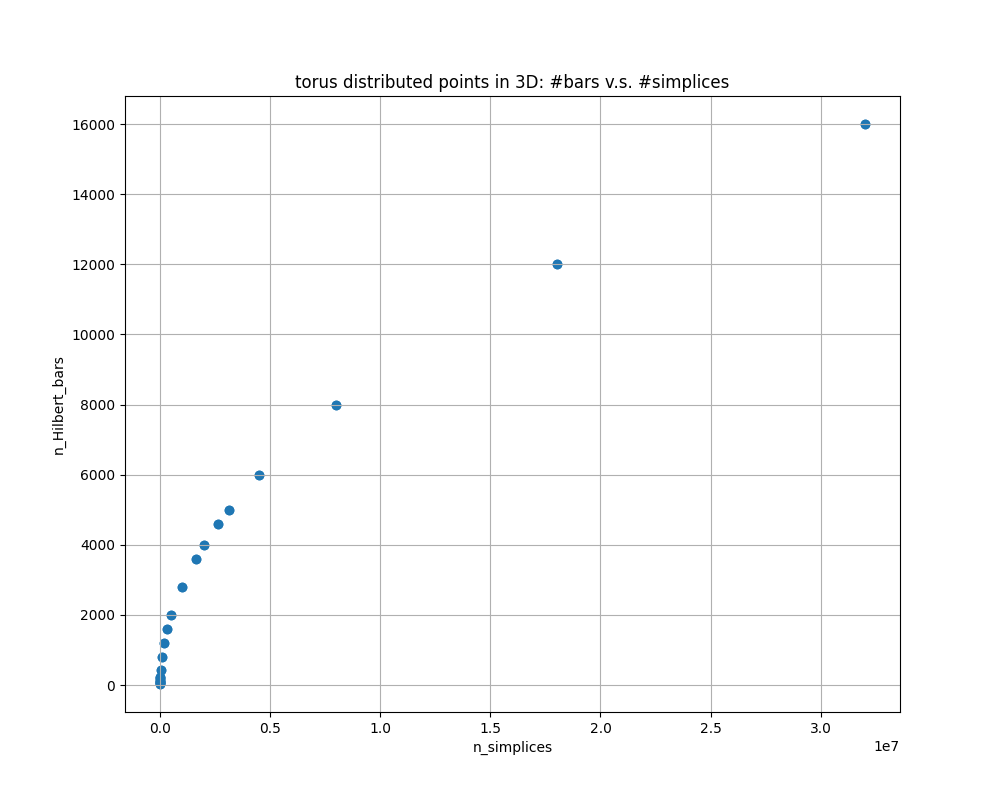
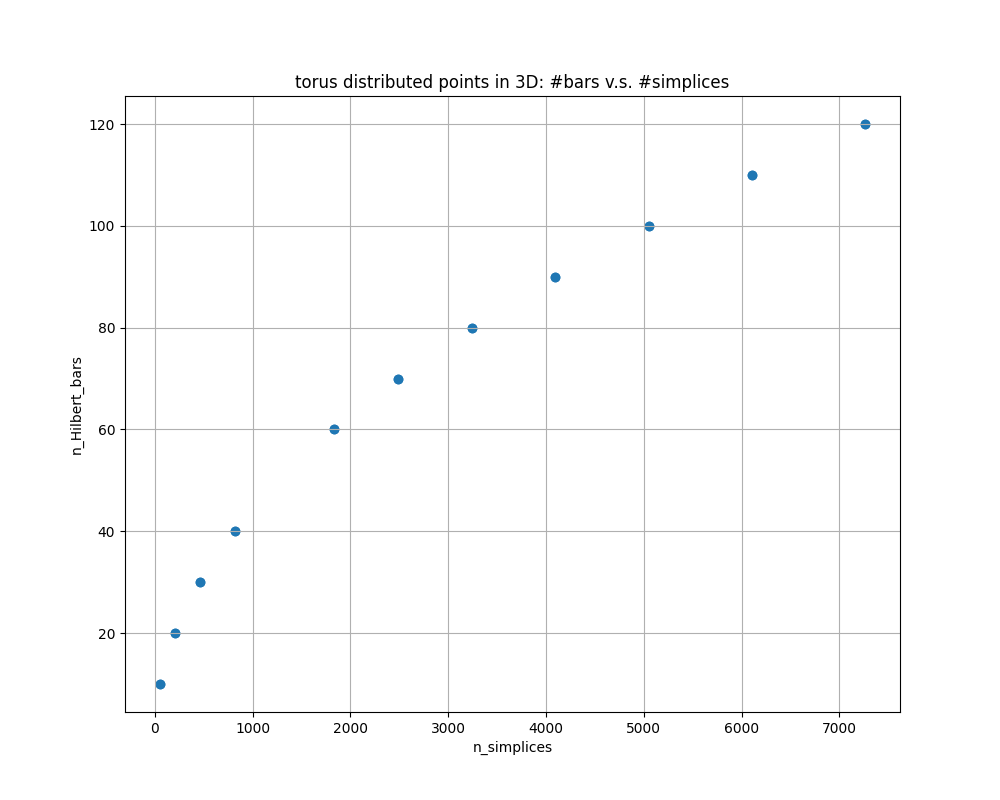
add experimental results

diff --git a/persistable/experiment_count_decomp_v4.py b/persistable/experiment_count_decomp_v4.py
@@ -4,6 +4,7 @@ import gudhi as gd
 import pdb
 import networkx as nx
 
+import persistable
 from persistable import Persistable
 from persistable.persistable import _HierarchicalClustering, _MetricSpace
 from persistable.signed_betti_numbers import signed_betti
@@ -78,16 +79,45 @@ def create_Gaussian_points(dim,pts_range,N,n_clusters):
     points = points * pts_range
     return points
 
+def hf_degree_rips(
+    distance_matrix,
+    min_rips_value,
+    max_rips_value,
+    max_normalized_degree,
+    min_normalized_degree,
+    grid_granularity,
+    max_homological_dimension,
+    subsample_size = None,
+):
+    if subsample_size == None:
+        p = persistable.Persistable(distance_matrix, metric="precomputed")
+    else:
+        p = persistable.Persistable(distance_matrix, metric="precomputed", subsample=subsample_size)
+
+    rips_values, normalized_degree_values, hilbert_functions, minimal_hilbert_decompositions = p._hilbert_function(
+        min_rips_value,
+        max_rips_value,
+        max_normalized_degree,
+        min_normalized_degree,
+        grid_granularity,
+        homological_dimension=max_homological_dimension,
+    )
+    #print("higher degree hilbert_functions:\n",hilbert_functions)
+    #print("higher degree minimal_hilbert_decompositions:\n",minimal_hilbert_decompositions)
+    return rips_values, normalized_degree_values, hilbert_functions, minimal_hilbert_decompositions
 
 
-def run_experiments(n_batch, dim_point, pts_range, num_points, data_type, n_clusters, ss, ks):
+
+    
+def run_experiments_higher_homology(n_batch, dim_point, pts_range, num_points, data_type, n_clusters, min_radius,max_radius, max_degree,min_degree,grid_granularity,max_homological_dimension):
     n_signed_bars = []
     n_simplices = []
     n_vertices = []
 
     for num_point in num_points:
-        for _ in range(n_batch):
-
+        for batch_id in range(n_batch):
+            print("num_point=",num_point)
+            print("batch_id=",batch_id)
             # Create points
             if data_type=="uniform":
                 points = create_uniformly_distributed_points(dim_point,pts_range, num_point)
@@ -96,21 +126,27 @@ def run_experiments(n_batch, dim_point, pts_range, num_points, data_type, n_clus
             elif data_type=="gaussian":
                 points = create_Gaussian_points(dim_point,pts_range, num_point,n_clusters)
 
-
+            dist = DistanceMetric.get_metric('minkowski')
+            distance_matrix = dist.pairwise(points)
             # Compute the signed Betti barcode
-            p = Persistable(points,metric="minkowski")
-            bf = p._bifiltration
-            hf = bf._hilbert_function(ss, ks, reduced=False, n_jobs=4)
-            sb = signed_betti(hf[0])[0]
+            rips_values, normalized_degree_values, hilbert_functions, minimal_hilbert_decompositions=hf_degree_rips(distance_matrix, min_radius,max_radius,max_degree,min_degree,grid_granularity,max_homological_dimension)
+            #pdb.set_trace()
+            sb = minimal_hilbert_decompositions[max_homological_dimension]
+            #hf = hilbert_functions[max_homological_dimension]
+            
             num_pos_bar = sb[sb>0].sum()
             num_neg_bar = -sb[sb<0].sum()
             num_bars = num_pos_bar + num_neg_bar
-            n_signed_bars.append(num_bars)
-            n_simplices.append(num_point+num_point*(num_point-1)/2)
+
+            num_simplice = 0
+            for k in range(max_homological_dimension+1, max_homological_dimension+3):
+                num_simplice+=math.comb(num_point, k)
+
+            n_signed_bars.append(num_bars)    
+            n_simplices.append(num_simplice)
             n_vertices.append(num_point)
 
     return n_signed_bars, n_simplices, n_vertices
-    
 
 def draw_plot(x,y,x_name,y_name,title_name,fig_name):
     plt.figure(figsize=(10, 8))
@@ -123,18 +159,23 @@ def draw_plot(x,y,x_name,y_name,title_name,fig_name):
     plt.title(title_name)
 
     plt.grid(True)
-    plt.savefig("../experiment_result_v3/"+fig_name)
+    plt.savefig("../experiment_result_v4/"+fig_name)
     #plt.show()
 
 
 ##### User Define
-n_batch = 2
+n_batch = 1
 pts_range = 10
 data_type = "torus"
 max_n_clusters = 8
 max_dim_points = 8
-#num_points=[10,20,30,40,60,80,100,200,400,600,800,1000,1400,1800,2000,2300,2500,3000,4000,6000,8000]
-num_points=[10,20,30,40,60,70,80,90,100,110,120]
+max_degree = 1
+min_degree = 0
+min_radius = 0
+grid_granularity = 10
+max_homological_dimension = 1
+num_points=[10,20,30,40,60,80,100,200,400,600,800,1000,1400,1800]
+#num_points=[10,20,30,40,60,70,80,90,100,110,120]
 ######
 
 dist = DistanceMetric.get_metric('minkowski')
@@ -146,46 +187,43 @@ if data_type == "torus":
     dim_point = 3
     max_radius = (dist.pairwise([np.zeros(dim_point),np.ones(dim_point)*pts_range])[0,1]+1)/2
 
-    ss = np.linspace(0, max_radius, 10) #radius
-    ks = np.linspace(1, 0, 10) #degree
-
-    n_signed_bars, n_simplices, n_vertices = run_experiments(n_batch, dim_point, pts_range, num_points, data_type, n_clusters,ss, ks)
+    n_signed_bars, n_simplices, n_vertices = run_experiments_higher_homology(n_batch, dim_point, pts_range, num_points, data_type, n_clusters, min_radius,max_radius, max_degree,min_degree,grid_granularity,max_homological_dimension)
 
     title_type = data_type + " distributed points in " + str(dim_point) + "D: "
-    title_name1 = title_type + "#bars v.s. #simplices"
-    title_name2 = title_type + "#vertices v.s. #simplices"
-    title_name3 = title_type + "#vertices v.s. sqrt(#simplices)"
+    title_name1 = title_type + "#bars v.s. #simplices, degree "+str(max_homological_dimension)
+    title_name2 = title_type + "#vertices v.s. #simplices, degree "+str(max_homological_dimension)
+    title_name3 = title_type + "#vertices v.s. sqrt(#simplices), degree "+str(max_homological_dimension)
 
-    fig_name1 = data_type + "/" + data_type+"_" + str(dim_point) + "D_bars-simplices"
-    fig_name2 = data_type + "/" + data_type+"_" + str(dim_point) + "D_bars-vertices"
-    fig_name3 = data_type +"/" + data_type+"_" + str(dim_point) + "D_bars-sqrt(n_simplices)"
+    fig_name1 = data_type + "/" + data_type+"_" + str(dim_point) + "D_bars-simplices_degree_"+str(max_homological_dimension)
+    fig_name2 = data_type + "/" + data_type+"_" + str(dim_point) + "D_bars-vertices_degree_"+str(max_homological_dimension)
+    fig_name3 = data_type +"/" + data_type+"_" + str(dim_point) + "D_bars-sqrt(n_simplices)_degree_"+str(max_homological_dimension)
 
 
     n_simplices_array = np.array(n_simplices)
-    sqrt_n_simplices = np.sqrt(n_simplices_array)
-    sqrt_n_simplices_list = list(sqrt_n_simplices)
+    sbrt_n_simplices = np.cbrt(n_simplices_array)
+    cbrt_n_simplices_list = list(sbrt_n_simplices)
+    
 
     draw_plot(n_simplices,n_signed_bars,'n_simplices','n_Hilbert_bars',title_name1,fig_name1)
     draw_plot(n_vertices, n_signed_bars, 'n_pts','n_Hilbert_bars',title_name2,fig_name2)
-    draw_plot(sqrt_n_simplices_list, n_signed_bars, 'sqrt_n_simplices','n_Hilbert_bars',title_name3,fig_name3)
+    draw_plot(cbrt_n_simplices_list, n_signed_bars, 'cbrt_n_simplices','n_Hilbert_bars',title_name3,fig_name3)
+    pdb.set_trace()
 
 
 elif data_type== "gaussian":
     for n_clusters in range(1,max_n_clusters):
         for dim_point in range(1,max_dim_points):
             max_radius = (dist.pairwise([np.zeros(dim_point),np.ones(dim_point)*pts_range])[0,1]+1)/2
-            ss = np.linspace(0, max_radius, 10) #radius
-            ks = np.linspace(1, 0, 10) #degree
 
-            n_signed_bars, n_simplices, n_vertices = run_experiments(n_batch, dim_point, pts_range, num_points, data_type, n_clusters,ss, ks)
+            n_signed_bars, n_simplices, n_vertices = run_experiments_higher_homology(n_batch, dim_point, pts_range, num_points, data_type, n_clusters, min_radius,max_radius, max_degree,min_degree,grid_granularity,max_homological_dimension)
             title_type = data_type + " distributed points in " + str(dim_point) + "D: "
             title_type = str(n_clusters) + " clusters " + title_type
-            title_name1 = title_type + "#bars v.s. #simplices"
-            title_name2 = title_type + "#vertices v.s. #simplices"
-            title_name3 = title_type + "#vertices v.s. sqrt(#simplices)"
-            fig_name1 = data_type +"/" + data_type+"_" + str(dim_point) + "D_"+str(n_clusters)+"_clusters_bars-simplices"
-            fig_name2 = data_type +"/" + data_type+"_" + str(dim_point) + "D_"+str(n_clusters)+"_clusters_bars-vertices"
-            fig_name3 = data_type +"/" + data_type+"_" + str(dim_point) + "D_"+str(n_clusters)+"_clusters_bars-sqrt(n_simplices)"
+            title_name1 = title_type + "#bars v.s. #simplices, degree "+str(max_homological_dimension)
+            title_name2 = title_type + "#vertices v.s. #simplices, degree "+str(max_homological_dimension)
+            title_name3 = title_type + "#vertices v.s. sqrt(#simplices), degree "+str(max_homological_dimension)
+            fig_name1 = data_type +"/" + data_type+"_" + str(dim_point) + "D_"+str(n_clusters)+"_clusters_bars-simplices_degree_"+str(max_homological_dimension)
+            fig_name2 = data_type +"/" + data_type+"_" + str(dim_point) + "D_"+str(n_clusters)+"_clusters_bars-vertices_degree_"+str(max_homological_dimension)
+            fig_name3 = data_type +"/" + data_type+"_" + str(dim_point) + "D_"+str(n_clusters)+"_clusters_bars-sqrt(n_simplices)_degree_"+str(max_homological_dimension)
             
             n_simplices_array = np.array(n_simplices)
             sqrt_n_simplices = np.sqrt(n_simplices_array)
@@ -199,17 +237,15 @@ elif data_type== "gaussian":
 elif data_type=="uniform":
     for dim_point in range(1,max_dim_points):
         max_radius = (dist.pairwise([np.zeros(dim_point),np.ones(dim_point)*pts_range])[0,1]+1)/2
-        ss = np.linspace(0, max_radius, 10) #radius
-        ks = np.linspace(1, 0, 10) #degree
 
-        n_signed_bars, n_simplices, n_vertices = run_experiments(n_batch, dim_point, pts_range, num_points, data_type, n_clusters,ss, ks)
+        n_signed_bars, n_simplices, n_vertices = run_experiments_higher_homology(n_batch, dim_point, pts_range, num_points, data_type, n_clusters, min_radius,max_radius, max_degree,min_degree,grid_granularity,max_homological_dimension)
         title_type = data_type + " distributed points in " + str(dim_point) + "D: "
-        title_name1 = title_type + "#bars v.s. #simplices"
-        title_name2 = title_type + "#vertices v.s. #simplices"
-        title_name3 = title_type + "#vertices v.s. sqrt(#simplices)"
-        fig_name1 = data_type +"/" + data_type+"_" + str(dim_point) + "D_bars-simplices"
-        fig_name2 = data_type +"/" + data_type+"_" + str(dim_point) + "D_bars-vertices"
-        fig_name3 = data_type +"/" + data_type+"_" + str(dim_point) + "D_bars-sqrt(n_simplices)"
+        title_name1 = title_type + "#bars v.s. #simplices, degree "+str(max_homological_dimension)
+        title_name2 = title_type + "#vertices v.s. #simplices, degree "+str(max_homological_dimension)
+        title_name3 = title_type + "#vertices v.s. sqrt(#simplices), degree "+str(max_homological_dimension)
+        fig_name1 = data_type +"/" + data_type+"_" + str(dim_point) + "D_bars-simplices_degree_"+str(max_homological_dimension)
+        fig_name2 = data_type +"/" + data_type+"_" + str(dim_point) + "D_bars-vertices_degree_"+str(max_homological_dimension)
+        fig_name3 = data_type +"/" + data_type+"_" + str(dim_point) + "D_bars-sqrt(n_simplices)_degree_"+str(max_homological_dimension)
 
         n_simplices_array = np.array(n_simplices)
         sqrt_n_simplices = np.sqrt(n_simplices_array)

diff --git a/persistable/count_decomp_v4.py b/persistable/count_decomp_v4.py
@@ -5,9 +5,12 @@ import pdb
 import networkx as nx
 import gudhi as gd
 
+import persistable
 from persistable import Persistable
 from persistable.persistable import _HierarchicalClustering, _MetricSpace
 from persistable.signed_betti_numbers import signed_betti
+from sklearn.metrics import DistanceMetric
+
 
 def creat_random_points(x_range,y_range,N):
     # output is a (N,2) array
@@ -15,6 +18,56 @@ def creat_random_points(x_range,y_range,N):
     points[:,0]=points[:,0] * x_range
     points[:,1]=points[:,1] * y_range
     return points
+
+def hf_degree_rips(
+    distance_matrix,
+    min_rips_value,
+    max_rips_value,
+    max_normalized_degree,
+    min_normalized_degree,
+    grid_granularity,
+    max_homological_dimension,
+    subsample_size = None,
+):
+    if subsample_size == None:
+        p = persistable.Persistable(distance_matrix, metric="precomputed")
+    else:
+        p = persistable.Persistable(distance_matrix, metric="precomputed", subsample=subsample_size)
+
+    rips_values, normalized_degree_values, hilbert_functions, minimal_hilbert_decompositions = p._hilbert_function(
+        min_rips_value,
+        max_rips_value,
+        max_normalized_degree,
+        min_normalized_degree,
+        grid_granularity,
+        homological_dimension=max_homological_dimension,
+    )
+    print("higher degree hilbert_functions:\n",hilbert_functions)
+    print("higher degree minimal_hilbert_decompositions:\n",minimal_hilbert_decompositions)
+    return rips_values, normalized_degree_values, hilbert_functions, minimal_hilbert_decompositions
+
+
+
+def hf_h0_degree_rips(
+    point_cloud,
+    min_rips_value,
+    max_rips_value,
+    max_normalized_degree,
+    min_normalized_degree,
+    grid_granularity,
+):
+    p = persistable.Persistable(point_cloud, n_neighbors="all")
+
+    rips_values, normalized_degree_values, hilbert_functions, minimal_hilbert_decompositions = p._hilbert_function(
+        min_rips_value,
+        max_rips_value,
+        max_normalized_degree,
+        min_normalized_degree,
+        grid_granularity,
+    )
+    print("degree 0 hilbert_functions:\n",hilbert_functions[0])
+    print("degree 0 minimal hilbert decomposition:\n",minimal_hilbert_decompositions[0])
+    return rips_values, normalized_degree_values, hilbert_functions[0], minimal_hilbert_decompositions[0] 
 
 
 def filter_graph(points, edges, s):
@@ -31,16 +84,12 @@ def filter_graph(points, edges, s):
 
     # List of nodes to be removed
     nodes_to_remove = [node for node, degree in dict(G.degree()).items() if degree < s]
-
     # Remove nodes
     G.remove_nodes_from(nodes_to_remove)
-
     # Create a dictionary of remaining nodes and their coordinates
     remaining_points = np.array([data['coordinate'] for node, data in G.nodes(data=True)])
-    
     # Create a map of old indices to new indices
     old_to_new_indices = {old_idx: new_idx for new_idx, old_idx in enumerate(G.nodes)}
-
     # Create a numpy array of remaining edges with new indices
     remaining_edges = np.array([(old_to_new_indices[u], old_to_new_indices[v]) for u, v in G.edges()])
     return remaining_points, remaining_edges
@@ -49,10 +98,23 @@ def filter_graph(points, edges, s):
 
 
 # Create the data
-num_points = 20
+num_points = 40
 x_range = 10
 y_range = 10
 points = creat_random_points(x_range,y_range,num_points)
+
+min_rips_value=0
+max_rips_value=10
+max_normalized_degree=1
+min_normalized_degree=0
+grid_granularity=8
+max_homological_dimension=3
+
+
+
+
+dist = DistanceMetric.get_metric('minkowski')
+distance_matrix = dist.pairwise(points)
 
 # Plot the data
 plt.figure(figsize=(10,10))
@@ -60,20 +122,18 @@ plt.scatter(points[:,0], points[:,1], alpha=0.5)
 plt.show()
 
 
-# Compute the hilbert function
-ss = [0,1,3,5,7,9,11] #radius_scale
-ks = [1, 3 / 4, 1 / 2, 1/4, 0] #degree
+ss = [ 0.  ,  3.75,  7.5 , 11.25, 15.  ] #radius_scale
+ks = [1.  , 0.75, 0.5 , 0.25, 0.  ] #degree
 
-p = Persistable(points)
-bf = p._bifiltration
-hf = bf._hilbert_function(ss, ks, reduced=False, n_jobs=4)
-print("hilbert function=\n", hf)
+homology_degree=1
+rips_values, normalized_degree_values, hilbert_functions, minimal_hilbert_decompositions=hf_degree_rips(distance_matrix, min_rips_value,max_rips_value,max_normalized_degree,min_normalized_degree,grid_granularity,max_homological_dimension)
+#pdb.set_trace()
 
-# Compute the signed Betti barcode
-sb = signed_betti(hf)
-print("signed Betti barcode=\n",sb)
+#hf_h0_degree_rips(points,ss[0],ss[-1],ks[0],ks[-1],5)
 
 
+sb = minimal_hilbert_decompositions[max_homological_dimension]
+hf = hilbert_functions[max_homological_dimension]
 
 check = np.zeros(hf.shape)
 for i in range(hf.shape[0]):
@@ -118,15 +178,15 @@ num_filtered_points = filtered_points.shape[0]
 
 simplex_tree = gd.SimplexTree()
 # first add points
-for pts_id in range(num_filtered_points):
+for pts_id in range(num_points):
     simplex_tree.insert([pts_id])
 # then add edges
-for edge in filtered_edges:
+for edge in edges:
     simplex_tree.insert(edge)
-simplex_tree.expansion(filtered_points.shape[0])
+simplex_tree.expansion(max_homological_dimension+1)
 
 
-fmt = '%s -> %.2f'
+#fmt = '%s -> %.2f'
 #print("simplex tree is ")
 #for filtered_value in simplex_tree.get_filtration():
 #    print(fmt % tuple(filtered_value))
@@ -137,13 +197,13 @@ result_str = 'Rips complex is of dimension ' + repr(simplex_tree.dimension()) + 
     repr(simplex_tree.num_simplices()) + ' simplices - ' + \
     repr(simplex_tree.num_vertices()) + ' vertices.'
 print(result_str)
-print("filtered_points.shape ",filtered_points.shape)
-print("filtered_edges.shape ",filtered_edges.shape)
-cnt=0
-for simplex in simplex_tree.get_skeleton(1):
-    if len(simplex[0]) == 2:  # only print simplices with 2 vertices (edges)
-        cnt+=1
-print("num edges = ",cnt)
+#print("filtered_points.shape ",filtered_points.shape)
+#print("filtered_edges.shape ",filtered_edges.shape)
+#cnt=0
+#for simplex in simplex_tree.get_skeleton(1):
+#    if len(simplex[0]) == 2:  # only print simplices with 2 vertices (edges)
+#        cnt+=1
+#print("num edges = ",cnt)
 
 
 
